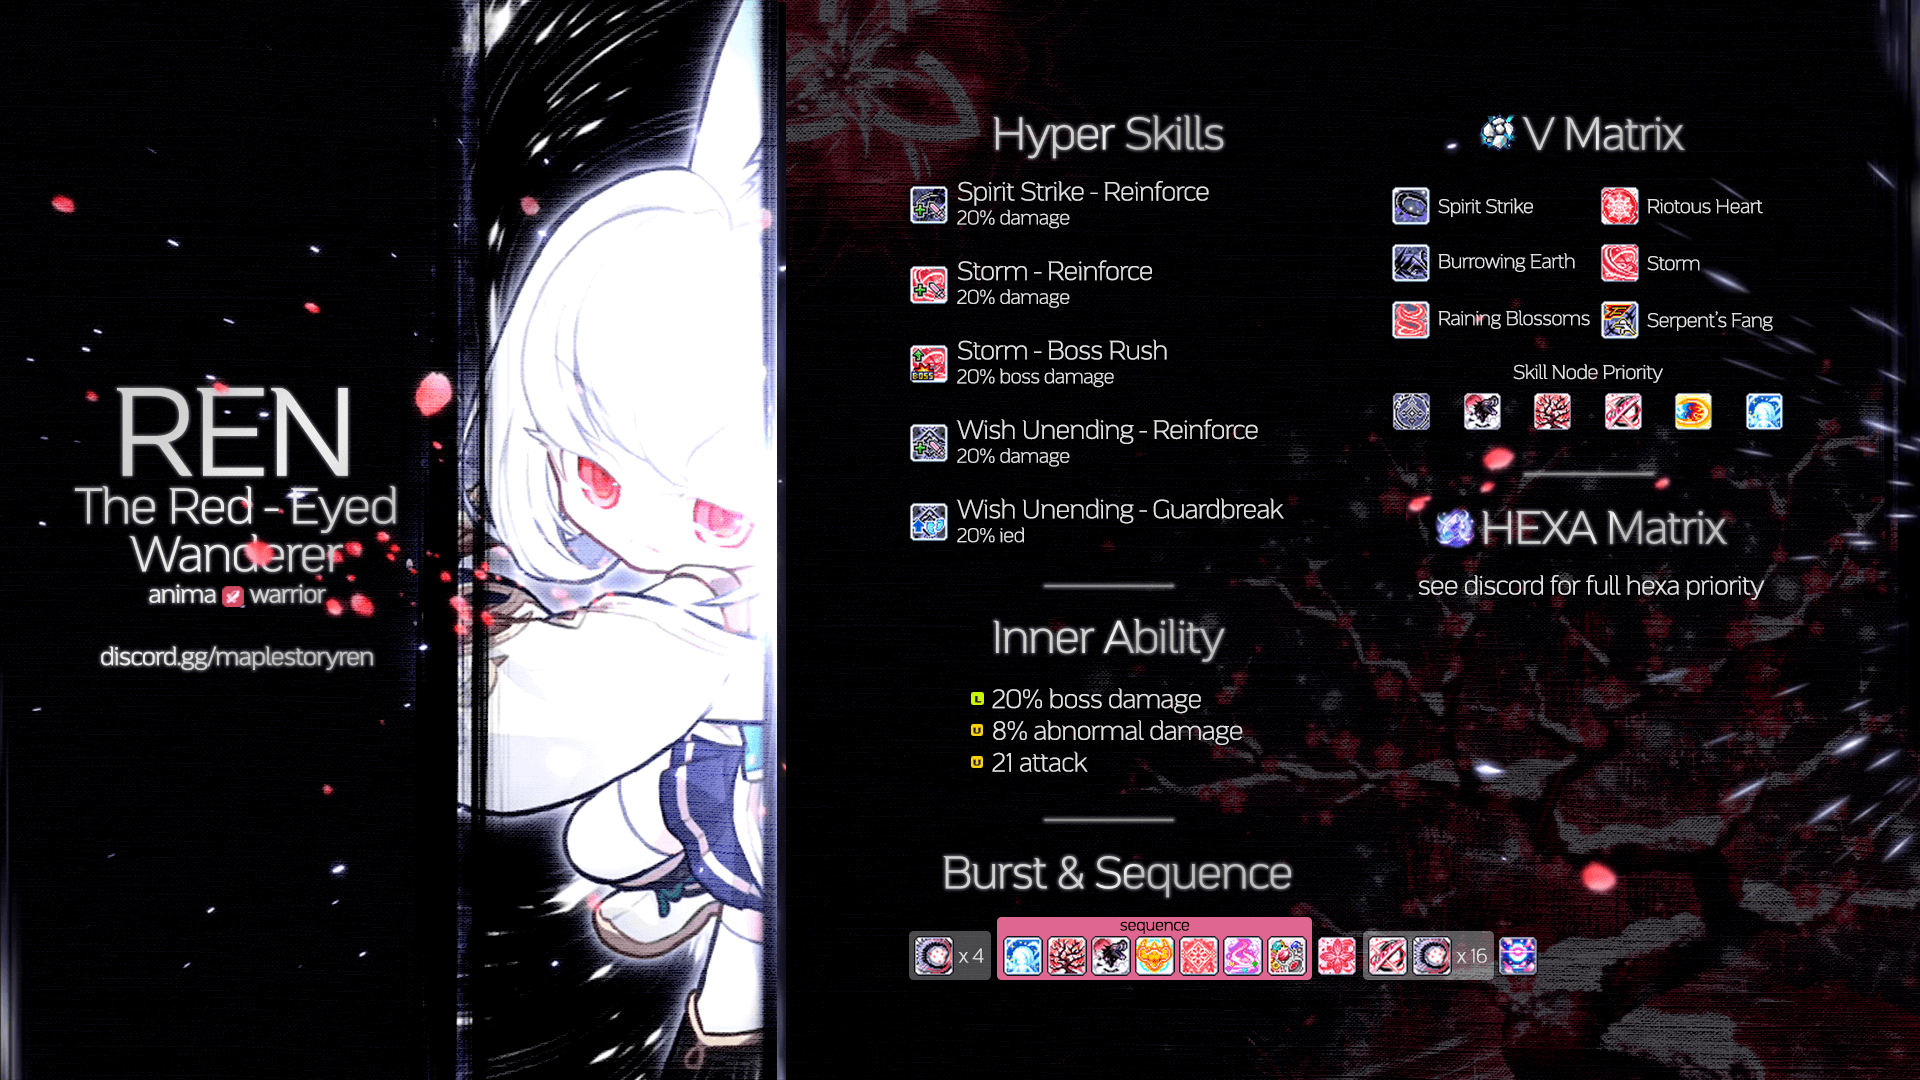
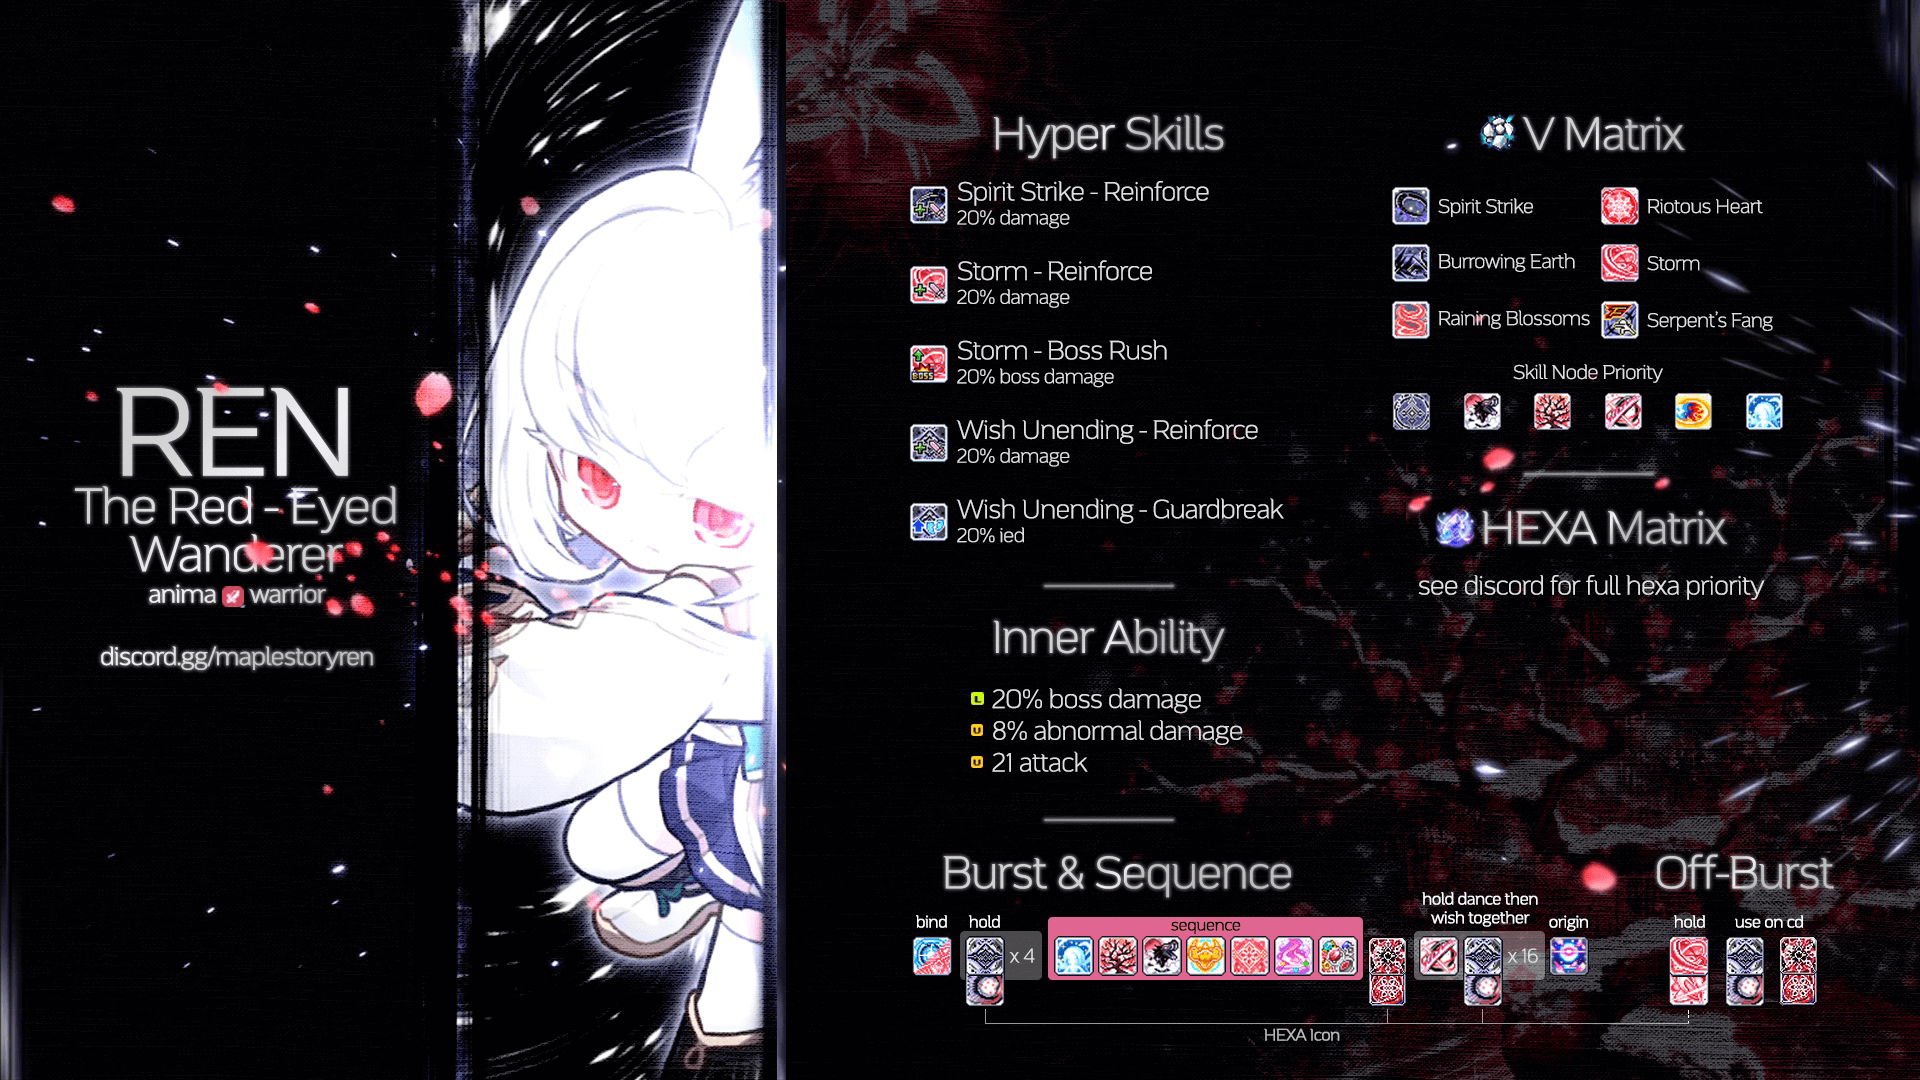
Added note to sengoku pages + updated infographics

diff --git a/pages/sengoku/[...slug].js b/pages/sengoku/[...slug].js
@@ -1,5 +1,5 @@
 import React, { useEffect, useState } from 'react';
-import { Container } from 'react-bootstrap';
+import { Container, Alert } from 'react-bootstrap';
 import { useRouter } from 'next/router';
 import Head from 'next/head';
 
@@ -24,6 +24,7 @@ function ClassOverview({post, slug}) {
             </Head>
             <HeaderImage imageUrl={HeaderImageUrl.library}/>
             <Container>
+              <Alert variant="info">Sengoku Class Overviews have not yet been updated with remaster changes. Please check back later for updates</Alert>
               <ClassIntro data={data}/>
               {data.content.howToCreate && <ClassCreation classTitle={data.class} howToCreate={data.content.howToCreate}/>}
               {data.content.extraContent && <ClassExtraContent title={data.content.extraContent.title} content={data.content.extraContent.content}/>}
